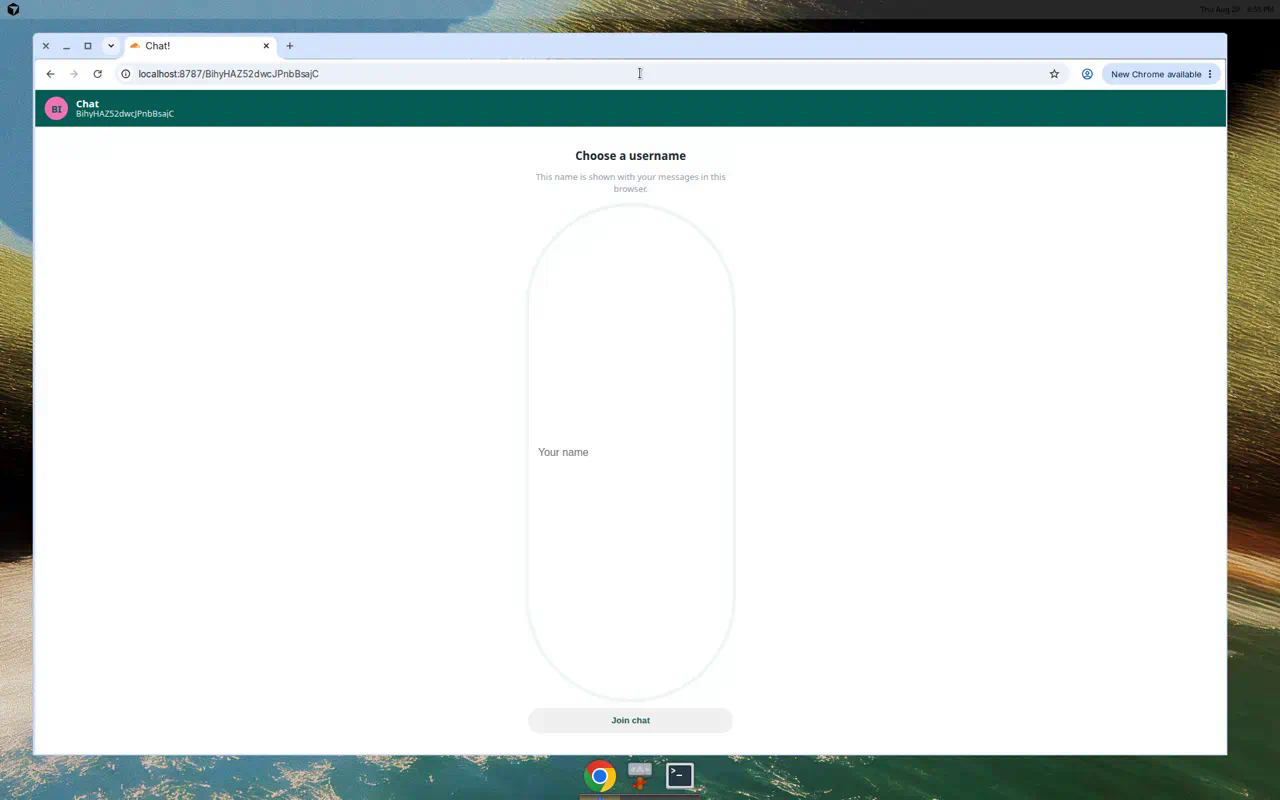
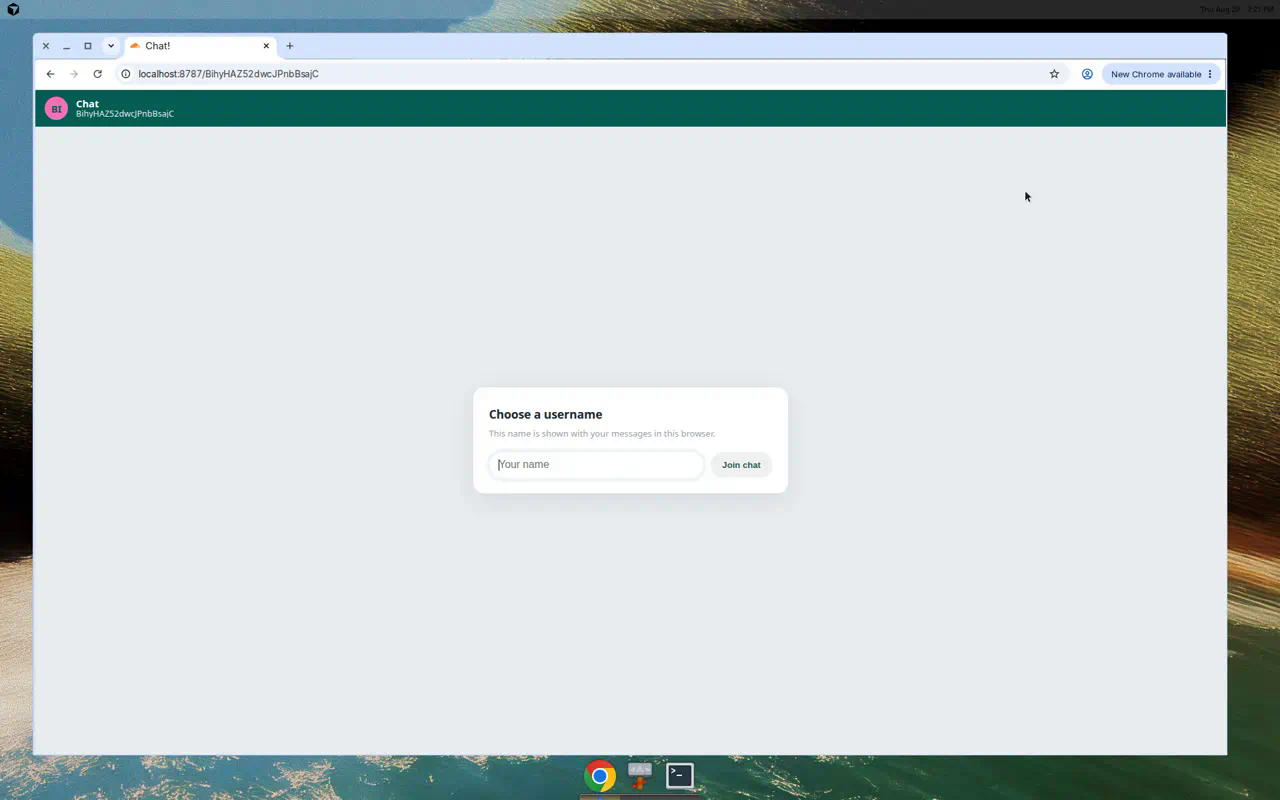
Tighten username card so the field no longer fills the page
Center a compact card on the chat background, pin the input to
composer height, and place Join chat beside a wider field.

diff --git a/src/chat/styles.css b/src/chat/styles.css
@@ -205,6 +205,7 @@ body, html {
 .username-gate {
 	flex: 1;
 	display: flex;
+	flex-direction: column;
 	align-items: center;
 	justify-content: center;
 	padding: 24px 16px;
@@ -212,37 +213,41 @@ body, html {
 	min-height: 0;
 }
 .username-card {
-	width: min(420px, 100%);
-	flex: none;
+	width: 480px;
+	max-width: calc(100% - 32px);
+	min-width: 0;
+	flex: 0 0 auto;
 	display: flex;
 	flex-direction: column;
 	gap: 8px;
-	padding: 22px 20px 18px;
+	padding: 28px 24px 22px;
 	background: var(--surface);
 	border-radius: 16px;
 	box-shadow: 0 10px 40px rgba(11, 18, 32, 0.08);
 	box-sizing: border-box;
 }
-.username-gate-title { font-size: 1.15rem; font-weight: 700; color: #202c33; }
-.username-gate-sub { font-size: 0.88rem; color: var(--muted); line-height: 1.35; }
+.username-gate-title { font-size: 1.2rem; font-weight: 700; color: #202c33; letter-spacing: -0.01em; }
+.username-gate-sub { font-size: 0.88rem; color: var(--muted); line-height: 1.4; }
 .username-gate-error { font-size: 0.82rem; color: #c53030; }
 .username-row {
 	display: flex;
 	flex-direction: row;
 	align-items: center;
-	gap: 8px;
-	margin-top: 8px;
+	gap: 10px;
+	margin-top: 10px;
 }
 .username-row .input {
 	flex: 1 1 auto;
 	min-width: 0;
-	height: 38px;
-	max-height: 38px;
+	width: auto;
+	height: 40px;
+	max-height: 40px;
 }
 .username-row .btn {
 	width: auto;
 	flex: 0 0 auto;
-	padding: 0 16px;
+	height: 40px;
+	padding: 0 18px;
 	white-space: nowrap;
 }
 

diff --git a/README.md b/README.md
@@ -5,7 +5,7 @@
 
 ![Choose a username on first visit](docs/screenshots/choose-username.png)
 
-![Chat after joining as Alex](docs/screenshots/chat-as-alex.png)
+![Username entered with Join chat enabled](docs/screenshots/username-join.png)
 
 <!-- dash-content-start -->
 
